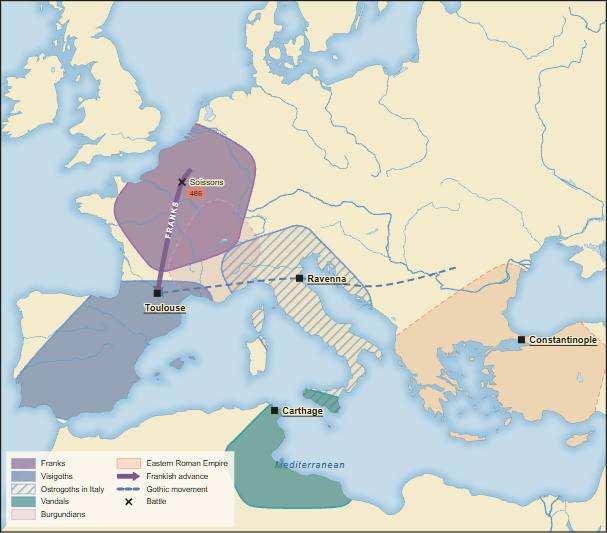
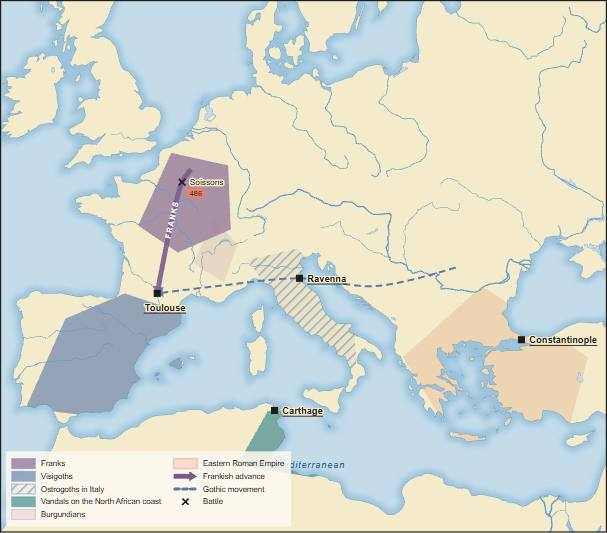
Round 6 plate fixes
Copilot-Session: 37f2f47f-8b63-49cd-b8ce-cded564ac449

diff --git a/atlas/plates/justinian-reconquest.js b/atlas/plates/justinian-reconquest.js
@@ -1,30 +1,37 @@
 // Justinian's reconquest, based on the round 6 Penguin Atlas spreads.
 (function () {
   const BYZ="#d66a4a", V="#2f7f86", G="#5b78a8", L="#79a85a";
-  const CON=[28.98,41.01], CAR=[10.31,36.85], SIC=[14.25,37.6], ROME=[12.5,41.9], RAV=[12.2,44.42], TAG=[12.77,43.35];
+  const CON=[28.98,41.01], CAR=[10.31,36.85], SIC=[14.25,37.6], ROME=[12.5,41.9], RAV=[12.2,44.42], TAG=[12.77,43.35], ALEX=[29.92,31.2];
   window.PLATES["justinian-reconquest"] = { id:"justinian-reconquest", title:"Justinian's reconquest, A.D. 527-565", head:"Early Middle Ages / Byzantium", folio:"13", viewer:"medieval/0540/ch-justinian-reconquest", figures:[
-    { caption:"The Mediterranean restoration attempted by Justinian", share:0.66, extent:[[-8,28],[36,47]], projection:"mercator", layers:[
-      {id:"byzantine-core",type:"area",tier:"core",colour:BYZ,legend:"Eastern Roman core",around:[[20,40],[27,44],[35,39],[31,34],[23,35]],labelAt:[29,39]},
-      {id:"africa",type:"area",tier:"conquest",colour:BYZ,legend:"Reconquered from Vandals, 533-34",around:[[8,34],[13,37],[17,36],[15,32],[9,32]],labelAt:[12,35]},
-      {id:"italy",type:"area",tier:"conquest",colour:BYZ,legend:"Reconquered Italy, 535-54",around:[[10,45],[13,45],[16,42],[16,38],[13,40],[11,43]],labelAt:[13,42]},
-      {id:"vandal",type:"area",colour:V,pattern:"hatch",legend:"Vandal kingdom before 533",around:[[8,34],[13,37],[17,36],[15,32],[9,32]],labelAt:[10,34]},
-      {id:"ostrogoth",type:"area",colour:G,pattern:"hatch-back",legend:"Ostrogothic kingdom before 535",around:[[8,45],[12,46],[16,43],[17,40],[15,37],[12,40],[10,43]],labelAt:[15,43]},
-      {id:"belisarius-africa",type:"arrow",colour:BYZ,width:6,label:"Belisarius",legend:"Belisarius to Africa",path:[CON,[20,37],CAR]},
+    { caption:"The Mediterranean restoration attempted by Justinian", share:0.66, extent:[[-7,25],[42,45.7]], projection:"mercator", layers:[
+      {id:"byzantine-core",type:"area",clipToLand:true,tier:"core",colour:BYZ,legend:"Eastern Roman core: Balkans, Anatolia, Syria and Egypt",polygon:[[18,41.5],[22,44.5],[29,43.5],[36,40],[39,36],[36,32],[32,31],[30,27],[26,27],[25,31],[31,34],[34,36],[31,39],[25,40],[21,39]],smooth:false},
+      {id:"africa",type:"area",clipToLand:true,tier:"conquest",colour:BYZ,legend:"Reconquered from Vandals, 533-34",polygon:[[8.0,33.6],[9.8,36.7],[13.2,37.3],[16.8,35.8],[17.4,33.6],[13.0,32.5]],smooth:false},
+      {id:"italy",type:"area",clipToLand:true,tier:"conquest",colour:BYZ,legend:"Reconquered Italy, 535-54",polygon:[[9.0,45.0],[12.0,45.8],[15.5,43.5],[16.1,40.3],[14.6,37.7],[12.5,40.2],[10.6,43.2]],smooth:false},
+      {id:"spania",type:"area",clipToLand:true,tier:"conquest",colour:BYZ,pattern:"stripe",legend:"Spania: southeast Iberian foothold, 552",polygon:[[-2.2,37.9],[0.7,38.5],[1.6,37.2],[-1.5,36.4]],smooth:false},
+      {id:"vandal",type:"area",clipToLand:true,colour:V,pattern:"hatch",legend:"Vandal kingdom before 533: coast and islands",polygon:[[7.2,33.6],[9.8,36.8],[13.0,37.1],[17.2,35.8],[18.0,33.7],[13.5,32.8]],smooth:false},
+      {id:"vandal-sardinia",type:"area",clipToLand:true,colour:V,pattern:"hatch",polygon:[[8.0,38.8],[9.6,41.2],[10.0,40.0],[9.0,38.8]],smooth:false},
+      {id:"vandal-corsica",type:"area",clipToLand:true,colour:V,pattern:"hatch",polygon:[[8.5,41.2],[9.6,43.2],[10.2,42.5],[9.4,41.2]],smooth:false},
+      {id:"vandal-balearics",type:"area",clipToLand:true,colour:V,pattern:"hatch",polygon:[[1.0,38.4],[3.9,40.0],[4.2,38.2],[1.5,37.7]],smooth:false},
+      {id:"ostrogoth",type:"area",clipToLand:true,colour:G,pattern:"hatch-back",legend:"Ostrogothic kingdom before 535",polygon:[[8.6,45.6],[12.4,46.1],[16.2,43.5],[16.3,39.4],[14.8,37.8],[12.6,40.0],[10.5,43.2]],smooth:false},
+      {id:"belisarius-africa",type:"arrow",colour:BYZ,width:6,label:"Belisarius",legend:"Belisarius to Africa",path:[CON,[20,37.5],CAR]},
       {id:"italy-campaign",type:"arrow",colour:BYZ,width:5,legend:"War in Sicily and Italy",path:[CAR,SIC,ROME,RAV,TAG]},
-      {id:"lombards",type:"arrow",colour:L,width:5,label:"Lombards",date:"568",legend:"Lombards arrive after the war",path:[[14,47],[13,45],[10.5,44.5]]},
-      {id:"constantinople",type:"point",symbol:"capital",at:CON,name:"Constantinople",labelPos:"e"}, {id:"carthage",type:"point",symbol:"capital",at:CAR,name:"Carthage",tag:{text:"533",colour:"#f1c75b"}}, {id:"rome",type:"point",symbol:"capital",at:ROME,name:"Rome"}, {id:"ravenna",type:"point",symbol:"capital",at:RAV,name:"Ravenna",tag:{text:"540",colour:"#f1c75b"}}, {id:"taginae",type:"point",symbol:"battle",at:TAG,name:"Taginae",tag:{text:"552",colour:"#e8806a"},legend:"Battle"}
+      {id:"spania-campaign",type:"arrow",colour:BYZ,width:4,legend:"Byzantine foothold in Spain, 552",path:[CAR,[3.0,37.0],[-0.8,37.2]]},
+      {id:"lombards",type:"arrow",colour:L,width:5,date:"568",legend:"Lombards arrive after the war",path:[[14.4,46.7],[13.4,45.7],[10.5,44.9]]},
+      {id:"constantinople",type:"point",symbol:"capital",at:CON,name:"Constantinople",labelPos:"e"}, {id:"alexandria",type:"point",symbol:"large-city",at:ALEX,name:"Alexandria",labelPos:"e"}, {id:"antioch",type:"point",symbol:"large-city",at:[36.2,36.2],name:"Antioch",labelPos:"e"},
+      {id:"carthage",type:"point",symbol:"capital",at:CAR,name:"Carthage",tag:{text:"533",colour:"#f1c75b"}}, {id:"rome",type:"point",symbol:"capital",at:ROME,name:"Rome"}, {id:"ravenna",type:"point",symbol:"capital",at:RAV,name:"Ravenna",tag:{text:"540",colour:"#f1c75b"}}, {id:"taginae",type:"point",symbol:"battle",at:TAG,name:"Taginae",tag:{text:"552",colour:"#e8806a"},legend:"Battle"}, {id:"spain-pt",type:"point",symbol:"fortress",at:[-0.8,37.2],name:"Spania",tag:{text:"552",colour:"#f1c75b"}}
     ], legend:{position:"bottom-left",columns:2} },
     { caption:"Cost of the restoration", share:0.34, extent:[[6,36],[18,46]], projection:"mercator", layers:[
-      {id:"italy-war-zone",type:"area",colour:"#e0a080",opacity:0.35,legend:"Italy devastated by long war",around:[[9,45],[12,46],[16,43],[16,39],[13,38],[10,42]],labelAt:[13,42]},
+      {id:"italy-war-zone",type:"area",clipToLand:true,colour:"#e0a080",opacity:0.35,legend:"Italy devastated by long war",polygon:[[9,45],[12,46],[16,43],[16,39],[13,38],[10,42]],smooth:false},
       {id:"imperial-corridors",type:"route",style:"road",colour:"#7b6848",legend:"Thin imperial corridors",path:[[12.2,44.42],[12.5,41.9],[14.25,37.6]]},
-      {id:"exarchate",type:"area",tier:"core",colour:BYZ,legend:"Ravenna and imperial footholds",around:[[11.5,44.0],[12.5,44.8],[13.2,44.0],[12.5,43.5]],labelAt:[12.4,44.2]},
-      {id:"lombard-north",type:"area",tier:"influence",colour:L,legend:"Lombard pressure after 568",around:[[8,45],[11,46],[14,45],[13,44],[10,44]],labelAt:[11,45]},
+      {id:"exarchate",type:"area",clipToLand:true,tier:"core",colour:BYZ,legend:"Ravenna and imperial footholds",polygon:[[11.5,44.0],[12.5,44.8],[13.2,44.0],[12.5,43.5]],smooth:false},
+      {id:"lombard-north",type:"area",clipToLand:true,tier:"influence",colour:L,legend:"Lombard pressure after 568",polygon:[[8,45],[11,46],[14,45],[13,44],[10,44]],smooth:false},
       {id:"ravenna2",type:"point",symbol:"capital",at:RAV,name:"Ravenna"}, {id:"rome2",type:"point",symbol:"bishopric",at:ROME,name:"Rome"}, {id:"sicily2",type:"point",symbol:"port",at:SIC,name:"Sicily"}
     ], legend:{position:"bottom-left",columns:1} }
   ], text:{ intro:"Justinian's western wars briefly made the Roman claim visible again, but the map was expensive and thin.", sections:[
     {heading:"Reconquest", entries:[
-      {date:"533-34", text:"Belisarius crosses from Constantinople's world to Africa and destroys the Vandal kingdom at Carthage.", refs:["byzantine-core","africa","vandal","belisarius-africa","constantinople","carthage"]},
-      {date:"535-54", text:"The war moves through Sicily and Italy. Ravenna falls, but fighting continues until Taginae and the final collapse of Ostrogothic power.", refs:["italy","ostrogoth","italy-campaign","ravenna","taginae","rome"]}
+      {date:"533-34", text:"Belisarius crosses from Constantinople's world to Africa and destroys the Vandal kingdom at Carthage. The eastern core still includes Egypt, Syria, Palestine and Anatolia, not just the Aegean.", refs:["byzantine-core","africa","vandal","vandal-sardinia","belisarius-africa","constantinople","carthage","alexandria","antioch"]},
+      {date:"535-54", text:"The war moves through Sicily and Italy. Ravenna falls, but fighting continues until Taginae and the final collapse of Ostrogothic power.", refs:["italy","ostrogoth","italy-campaign","ravenna","taginae","rome"]},
+      {date:"552", text:"Justinian's Spain is only a coastal foothold in the southeast, not a full reconquest of Iberia.", refs:["spania","spania-campaign","spain-pt"]}
     ]},
     {heading:"Aftermath", entries:[
       {date:"568", text:"The Lombards enter a battered Italy, turning the reconquest from a restored Roman west into a patchwork of corridors and footholds.", refs:["lombards","italy-war-zone","imperial-corridors","exarchate","lombard-north","ravenna2","rome2","sicily2"]}

diff --git a/atlas/plates/carolingian-partition.js b/atlas/plates/carolingian-partition.js
@@ -1,27 +1,29 @@
 // Charlemagne and the Treaty of Verdun, based on the round 6 Penguin Atlas spreads.
 (function () {
-  const FR="#7a5a8c", W="#c7836b", M="#c58b32", E="#7d8790", SAX="#9fb879", IT="#d66a4a";
+  const FR="#7a5a8c", W="#cf8b65", M="#e0b04e", E="#7b93a4", SAX="#8fb36a", IT="#d66a4a", LINE="#5f4b8b";
   const AACH=[6.08,50.78], ROME=[12.5,41.9], VER=[5.38,49.16], TOURS=[0.68,47.39], RON=[-1.3,43.01], PAV=[9.16,45.18];
+  const westEdge = [[4.35,52.8],[4.75,51.4],[5.75,50.4],[5.85,49.2],[5.55,48.2],[5.25,47.0],[4.85,45.8],[4.95,44.6],[5.25,43.5]];
+  const eastEdge = [[8.55,53.4],[8.2,52.0],[7.8,50.8],[7.7,49.5],[8.0,48.2],[8.45,47.0],[8.85,45.8],[9.45,44.4],[10.1,42.8]];
   window.PLATES["carolingian-partition"] = { id:"carolingian-partition", title:"Charlemagne's empire and the partition of 843", head:"Early Middle Ages / The Franks", folio:"14", viewer:"medieval/0843/ch-franks-carolingians", figures:[
-    { caption:"The Empire of Charlemagne", share:0.48, extent:[[-7,40],[18,55]], projection:"mercator", layers:[
-      {id:"frankish-core",type:"area",tier:"core",colour:FR,legend:"Frankish core",around:[[0,48],[4,51],[7,50],[7,46],[2,45],[-1,47]],labelAt:[4,48]},
-      {id:"charlemagne-empire",type:"area",tier:"conquest",colour:FR,legend:"Charlemagne's empire",around:[[-4,43],[2,50],[8,53],[15,50],[14,44],[9,41],[2,43]],labelAt:[6,47]},
-      {id:"saxony",type:"area",tier:"conquest",colour:SAX,legend:"Saxony conquered",around:[[7,51],[10,53],[13,52],[12,49],[8,49]],labelAt:[10,51]},
-      {id:"lombard-italy",type:"area",tier:"conquest",colour:IT,legend:"Lombard Italy taken, 774",around:[[8,45],[12,46],[14,44],[14,41],[10,42]],labelAt:[11,44]},
-      {id:"saxon-war",type:"arrow",colour:FR,width:5,legend:"Saxon wars",path:[AACH,[8.5,51.5],[11,52]],label:"Saxons"},
-      {id:"italy-war",type:"arrow",colour:FR,width:5,legend:"Italian campaign",path:[AACH,PAV,ROME]},
-      {id:"spanish-march",type:"arrow",colour:FR,width:4,legend:"Spanish March",path:[AACH,TOURS,RON]},
+    { caption:"The Empire of Charlemagne", share:0.48, extent:[[-6,40],[18,55]], projection:"mercator", layers:[
+      {id:"frankish-core",type:"area",clipToLand:true,tier:"core",colour:FR,legend:"Frankish core",polygon:[[0,46.5],[1.5,49.5],[4.5,51.0],[7.0,50.0],[6.7,47.2],[3.5,45.4]],smooth:false},
+      {id:"charlemagne-empire",type:"area",clipToLand:true,tier:"conquest",colour:FR,legend:"Charlemagne's empire",polygon:[[-3.8,43.2],[-1.0,48.5],[2.5,51.5],[5.8,53.1],[9.0,53.4],[13.6,51.6],[14.8,48.5],[13.6,45.2],[12.3,42.2],[9.0,41.2],[5.0,42.5],[1.2,43.6]],smooth:false},
+      {id:"saxony",type:"area",clipToLand:true,tier:"conquest",colour:SAX,legend:"Saxony conquered",polygon:[[7.0,50.0],[8.7,52.7],[12.8,52.1],[13.0,49.2],[9.1,48.9]],smooth:false},
+      {id:"lombard-italy",type:"area",clipToLand:true,tier:"conquest",colour:IT,legend:"Lombard Italy taken, 774",polygon:[[7.4,45.3],[10.8,46.2],[13.6,44.0],[13.9,41.7],[12.3,40.7],[10.6,42.2],[8.8,43.8]],smooth:false},
+      {id:"saxon-war",type:"arrow",colour:FR,width:5,legend:"Saxon wars",path:[AACH,[8.4,51.6],[11.2,51.9]],label:"Saxons"},
+      {id:"italy-war",type:"arrow",colour:FR,width:5,legend:"Italian campaign",path:[AACH,[7.6,47.2],PAV,ROME]},
+      {id:"spanish-march",type:"arrow",colour:FR,width:4,legend:"Spanish March to the Ebro",path:[AACH,[2.0,47.8],TOURS,RON,[0.5,41.5]]},
       {id:"aachen",type:"point",symbol:"capital",at:AACH,name:"Aachen",tag:{text:"palace",colour:"#f1c75b"}}, {id:"rome",type:"point",symbol:"capital",at:ROME,name:"Rome",tag:{text:"800",colour:"#f1c75b"}}, {id:"tours",type:"point",symbol:"battle",at:TOURS,name:"Tours",tag:{text:"732",colour:"#e8806a"}}, {id:"roncesvalles",type:"point",symbol:"battle",at:RON,name:"Roncesvalles",tag:{text:"778",colour:"#e8806a"}}
     ], legend:{position:"top-left",columns:2} },
     { caption:"The Treaty of Verdun, 843", share:0.52, extent:[[-7,40],[18,55]], projection:"mercator", layers:[
-      {id:"west-francia",type:"area",tier:"core",colour:W,legend:"West Francia: Charles the Bald",around:[[-5,43],[1,49],[4,50],[4,45],[0,43]],labelAt:[0,47]},
-      {id:"middle-kingdom",type:"area",tier:"core",colour:M,legend:"Middle kingdom: Lothar",around:[[4,42],[5,50],[7,53],[9,50],[8,45],[11,42],[7,41]],labelAt:[6.8,47]},
-      {id:"east-francia",type:"area",tier:"core",colour:E,legend:"East Francia: Louis the German",around:[[8,47],[9,53],[15,51],[16,46],[12,44],[9,45]],labelAt:[12,49]},
-      {id:"italy-843",type:"area",tier:"core",colour:IT,legend:"Imperial Italy",around:[[8,45],[12,45],[14,43],[14,41],[10,42]],labelAt:[11,43]},
-      {id:"verdun-west",type:"boundary",style:"partition",colour:"#5f4b8b",width:3,legend:"Partition lines",path:[[4.4,52],[4.6,49],[4.4,47],[4.9,44],[5.5,42]]},
-      {id:"verdun-east",type:"boundary",style:"partition",colour:"#5f4b8b",width:3,path:[[8.2,53],[8.0,50],[8.4,47],[9.2,44],[10.4,42]]},
-      {id:"verdun",type:"point",symbol:"treaty",at:VER,name:"Verdun",tag:{text:"843",colour:"#f1c75b"},legend:"Treaty"}, {id:"paris",type:"point",symbol:"large-city",at:[2.35,48.86],name:"Paris"}, {id:"regensburg",type:"point",symbol:"large-city",at:[12.1,49.02],name:"Regensburg"}, {id:"rome2",type:"point",symbol:"capital",at:ROME,name:"Rome"},
-      {type:"label",style:"note",text:"Partition, not modern borders",at:[1.5,42.2],size:8.5}
+      {id:"west-francia",type:"area",clipToLand:true,edge:false,tier:"core",colour:W,legend:"West Francia: Charles the Bald",polygon:[[-5.8,42.6],[-5.0,48.8],[-1.0,51.0],[2.7,52.0],westEdge[0],...westEdge.slice(1),[3.6,43.0],[-1.2,42.0]],smooth:false},
+      {id:"middle-kingdom",type:"area",clipToLand:true,edge:false,tier:"core",colour:M,legend:"Middle kingdom: Lothar",polygon:[westEdge[0],...westEdge.slice(1),[7.7,42.0],[9.0,41.4],[10.8,42.0],...eastEdge.slice().reverse(),[8.55,53.4]],smooth:false},
+      {id:"east-francia",type:"area",clipToLand:true,edge:false,tier:"core",colour:E,legend:"East Francia: Louis the German",polygon:[eastEdge[0],...eastEdge.slice(1),[13.7,43.5],[16.0,46.0],[15.2,51.2],[12.0,53.1]],smooth:false},
+      {id:"italy-lothar",type:"area",clipToLand:true,tier:"conquest",colour:M,pattern:"stripe",legend:"Lothar's Italy, north and centre",polygon:[[7.7,45.5],[10.8,46.1],[13.2,44.0],[13.8,41.8],[12.8,40.6],[11.4,41.2],[9.6,42.8],[8.2,44.0]],smooth:false},
+      {id:"benevento",type:"area",clipToLand:true,tier:"influence",colour:"#8fb36a",legend:"Benevento and Byzantine south outside Lothar",polygon:[[13.0,41.2],[15.5,41.0],[16.2,39.0],[15.0,37.8],[13.5,39.3]],smooth:false},
+      {id:"verdun-west",type:"boundary",style:"partition",colour:LINE,width:3,legend:"Partition lines",path:westEdge},
+      {id:"verdun-east",type:"boundary",style:"partition",colour:LINE,width:3,path:eastEdge},
+      {id:"verdun",type:"point",symbol:"treaty",at:VER,name:"Verdun",tag:{text:"843",colour:"#f1c75b"},legend:"Treaty"}, {id:"paris",type:"point",symbol:"large-city",at:[2.35,48.86],name:"Paris"}, {id:"regensburg",type:"point",symbol:"large-city",at:[12.1,49.02],name:"Regensburg"}, {id:"rome2",type:"point",symbol:"capital",at:ROME,name:"Rome"}
     ], legend:{position:"bottom-left",columns:2} }
   ], text:{ intro:"The Carolingian map is best read twice: first as Charlemagne's working empire, then as the family settlement that split it after Louis the Pious.", sections:[
     {heading:"Empire", entries:[
@@ -29,8 +31,8 @@
       {date:"772-804", text:"The Saxon wars pull the northeast into the empire; the Lombard crown and the Spanish March extend it south and southwest.", refs:["saxony","lombard-italy","saxon-war","italy-war","spanish-march","roncesvalles","tours"]}
     ]},
     {heading:"Partition", entries:[
-      {date:"843", text:"Verdun divides the empire among Charles the Bald, Lothar and Louis the German. The middle kingdom is powerful on paper but hard to hold together.", refs:["west-francia","middle-kingdom","east-francia","italy-843","verdun","verdun-west","verdun-east"]},
-      {date:"after 843", text:"The western and eastern kingdoms are more durable; the lands between them become the contested corridor of medieval Europe.", refs:["paris","regensburg","rome2"]}
+      {date:"843", text:"Verdun divides the empire among Charles the Bald, Lothar and Louis the German. Lothar's middle kingdom runs from Frisia through Burgundy and Provence to Italy, which is why it is powerful on paper but hard to hold together.", refs:["west-francia","middle-kingdom","east-francia","italy-lothar","verdun","verdun-west","verdun-east"]},
+      {date:"after 843", text:"The western and eastern kingdoms are more durable; southern Italy remains outside Lothar's direct share in Lombard and Byzantine hands.", refs:["paris","regensburg","rome2","benevento"]}
     ]}
   ]}, sources:["Penguin Atlas Vol. 1 pp. 120-127", "Approximate partition fields; coastlines and rivers: Natural Earth 1:50m"] };
 })();

diff --git a/atlas/plates/barbarian-kingdoms.js b/atlas/plates/barbarian-kingdoms.js
@@ -4,12 +4,12 @@
   const ROME=[12.5,41.9], RAV=[12.2,44.42], CAR=[10.31,36.85], TOUL=[1.44,43.6], SOIS=[3.32,49.38], CON=[28.98,41.01];
   window.PLATES["barbarian-kingdoms"] = { id:"barbarian-kingdoms", title:"The barbarian kingdoms, c. A.D. 500", head:"Early Middle Ages / Successor kingdoms", folio:"12", viewer:"medieval/0507/ch-barbarian-kingdoms", figures:[
     { caption:"Western successor kingdoms after the Roman West", share:0.62, extent:[[-10,30],[35,57]], projection:"mercator", layers:[
-      {id:"franks",type:"area",tier:"core",colour:FR,legend:"Franks",around:[[0,48],[4,51],[7,50],[6,47],[2,46]],labelAt:[4,49]},
-      {id:"visigoths",type:"area",tier:"core",colour:G,legend:"Visigoths",around:[[-8,38],[-2,43],[4,43],[3,39],[-2,37]],labelAt:[-2,40]},
-      {id:"ostrogoths",type:"area",tier:"core",colour:G,pattern:"hatch",legend:"Ostrogoths in Italy",around:[[8,45],[12,46],[16,43],[17,40],[15,37],[12,40],[10,43]],labelAt:[13,42]},
-      {id:"vandals",type:"area",tier:"core",colour:V,legend:"Vandals",around:[[8,34],[12,37],[17,36],[15,32],[9,32]],labelAt:[12,35]},
-      {id:"burgundians",type:"area",tier:"influence",colour:"#b07aa1",legend:"Burgundians",around:[[4,45],[6,47.3],[7.5,46],[6.2,44]],labelAt:[6,46]},
-      {id:"eastern-empire",type:"area",tier:"influence",colour:B,legend:"Eastern Roman Empire",around:[[20,40],[28,44],[34,40],[32,34],[23,35]],labelAt:[29,38]},
+      {id:"franks",type:"area",clipToLand:true,tier:"core",colour:FR,legend:"Franks",polygon:[[0.0,47.2],[2.5,50.8],[6.8,50.2],[7.0,47.0],[3.0,45.8]],smooth:false,labelAt:[4,49]},
+      {id:"visigoths",type:"area",clipToLand:true,tier:"core",colour:G,legend:"Visigoths",polygon:[[-8.5,37.0],[-5.5,42.2],[-1.0,43.6],[3.5,42.5],[3.2,38.0],[-2.5,36.4]],smooth:false,labelAt:[-2,40]},
+      {id:"ostrogoths",type:"area",clipToLand:true,tier:"core",colour:G,pattern:"hatch",legend:"Ostrogoths in Italy",polygon:[[8.3,45.4],[12.0,46.0],[16.2,43.3],[16.5,39.6],[14.6,37.9],[12.5,40.0],[10.3,43.3]],smooth:false,labelAt:[13,42]},
+      {id:"vandals",type:"area",clipToLand:true,tier:"core",colour:V,legend:"Vandals on the North African coast",polygon:[[7.5,33.5],[9.8,36.8],[13.2,37.0],[17.2,35.7],[17.5,33.7],[13.2,32.7]],smooth:false,labelAt:[12,35]},
+      {id:"burgundians",type:"area",clipToLand:true,tier:"influence",colour:"#b07aa1",legend:"Burgundians",polygon:[[4.2,45.2],[5.7,47.6],[7.5,46.2],[6.5,44.2]],smooth:false,labelAt:[6,46]},
+      {id:"eastern-empire",type:"area",clipToLand:true,tier:"influence",colour:B,legend:"Eastern Roman Empire",polygon:[[20,40],[26,44],[34,40],[32,34],[24,35]],smooth:false,labelAt:[29,38]},
       {id:"clovis-route",type:"arrow",colour:FR,width:5,legend:"Frankish advance",path:[[4,50],SOIS,TOUL],label:"Franks"},
       {id:"gothic-route",type:"route",style:"dashed",colour:G,legend:"Gothic movement",path:[[24,45],[18,44],RAV,[6,44],TOUL],head:true},
       {id:"soissons",type:"point",symbol:"battle",at:SOIS,name:"Soissons",tag:{text:"486",colour:"#e8806a"},legend:"Battle"},
@@ -17,9 +17,9 @@
       {type:"label",style:"water",text:"Mediterranean",at:[13,33.5],size:9}
     ], legend:{position:"bottom-left",columns:2} },
     { caption:"What survived from Rome", share:0.38, extent:[[-6,35],[18,52]], projection:"mercator", layers:[
-      {id:"roman-cities",type:"area",colour:"#e0a080",opacity:0.24,legend:"Roman city-and-bishop network",around:[[-3,43],[2,49],[8,50],[14,45],[13,40],[5,41]],labelAt:[6,45]},
-      {id:"catholic-franks",type:"area",tier:"core",colour:FR,legend:"Catholic Frankish kingship",around:[[1,48],[5,50.5],[7,49],[5,46.5],[2,46.5]],labelAt:[4,48.5]},
-      {id:"arian-kings",type:"area",colour:G,pattern:"hatch",legend:"Arian Gothic courts",around:[[-5,39],[2,43],[12,45],[16,41],[12,38],[2,38]],labelAt:[6,41]},
+      {id:"roman-cities",type:"area",clipToLand:true,colour:"#e0a080",opacity:0.24,legend:"Roman city-and-bishop network",polygon:[[-3,43],[2,49],[8,50],[14,45],[13,40],[5,41]],smooth:false,labelAt:[6,45]},
+      {id:"catholic-franks",type:"area",clipToLand:true,tier:"core",colour:FR,legend:"Catholic Frankish kingship",polygon:[[1,48],[5,50.5],[7,49],[5,46.5],[2,46.5]],smooth:false,labelAt:[4,48.5]},
+      {id:"arian-kings",type:"area",clipToLand:true,colour:G,pattern:"hatch",legend:"Arian Gothic courts",polygon:[[-5,39],[2,43],[12,45],[16,41],[12,38],[2,38]],smooth:false,labelAt:[6,41]},
       {id:"bishops",type:"route",style:"dotted",colour:"#111111",legend:"Bishops and councils",path:[[2.35,48.86],[4.84,45.76],[5.37,43.3],[12.5,41.9],[12.2,44.42]]},
       {id:"paris",type:"point",symbol:"bishopric",at:[2.35,48.86],name:"Paris"}, {id:"lyon",type:"point",symbol:"bishopric",at:[4.84,45.76],name:"Lyon"}, {id:"rome",type:"point",symbol:"bishopric",at:ROME,name:"Rome"}, {id:"milan",type:"point",symbol:"bishopric",at:[9.19,45.46],name:"Milan"}
     ], legend:{position:"bottom-left",columns:1} }
